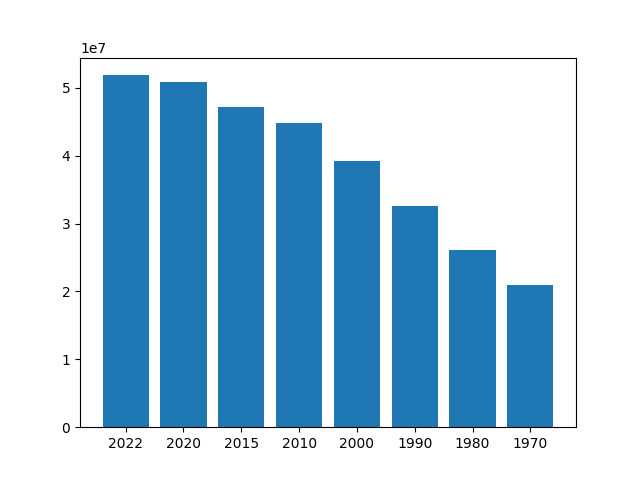
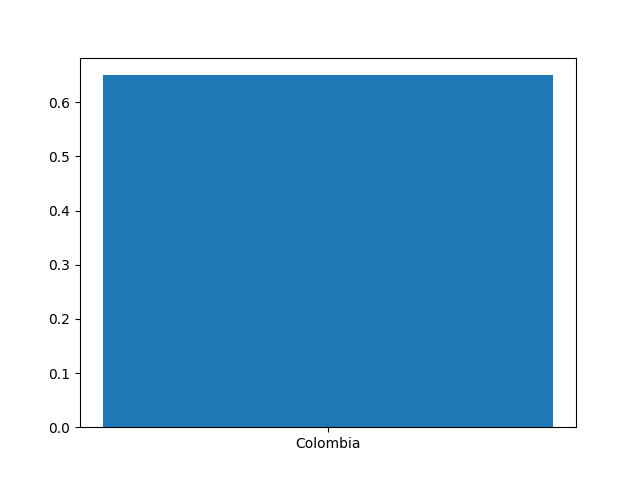
Clase de Pandas

diff --git a/app/main.py b/app/main.py
@@ -2,8 +2,7 @@
 import utils
 import read_csv
 import charts
-
-# Esta es una Prueba de Actualización
+import pandas as pd
 
 '''
 data = [{
@@ -30,6 +29,7 @@ def run():
 
 def run():
 
+  '''
   # Ejecuta la función read para leet el Archivo CSV pasandole la Ruta.
   data = read_csv.read_csv('./data.csv')
 
@@ -48,6 +48,21 @@ def run():
 
     # Ejecuta función generación grafico Pie
     charts.generate_pie_chart(name, labels, values)
+  '''
+  country = input('Type Continent => ')
+  name = country
+
+  df = pd.read_csv('./data.csv')
+  df = df[df['Continent'] == name]
+
+  countries = df['Country/Territory'].values
+  percentages = df['World Population Percentage'].values
+
+  charts.generate_pie_chart(name, countries, percentages)
+  charts.generate_bar_chart(name, countries, percentages)
+
+
+    
 
 '''
 def run_2():

diff --git a/web-server/store.py b/web-server/store.py
@@ -1,0 +1,11 @@
+import requests
+
+def get_categories():
+    r = requests.get('https://api.escuelajs.co/api/v1/categories')
+    print(r.status_code)
+    print(r.text)
+
+    categories = r.json()
+
+    for category in categories:
+        print(category['name'])

diff --git a/web-server/main.py b/web-server/main.py
@@ -1,0 +1,7 @@
+import store
+
+def run():    
+    store.get_categories()
+
+if __name__ == '__main__':
+    run()
